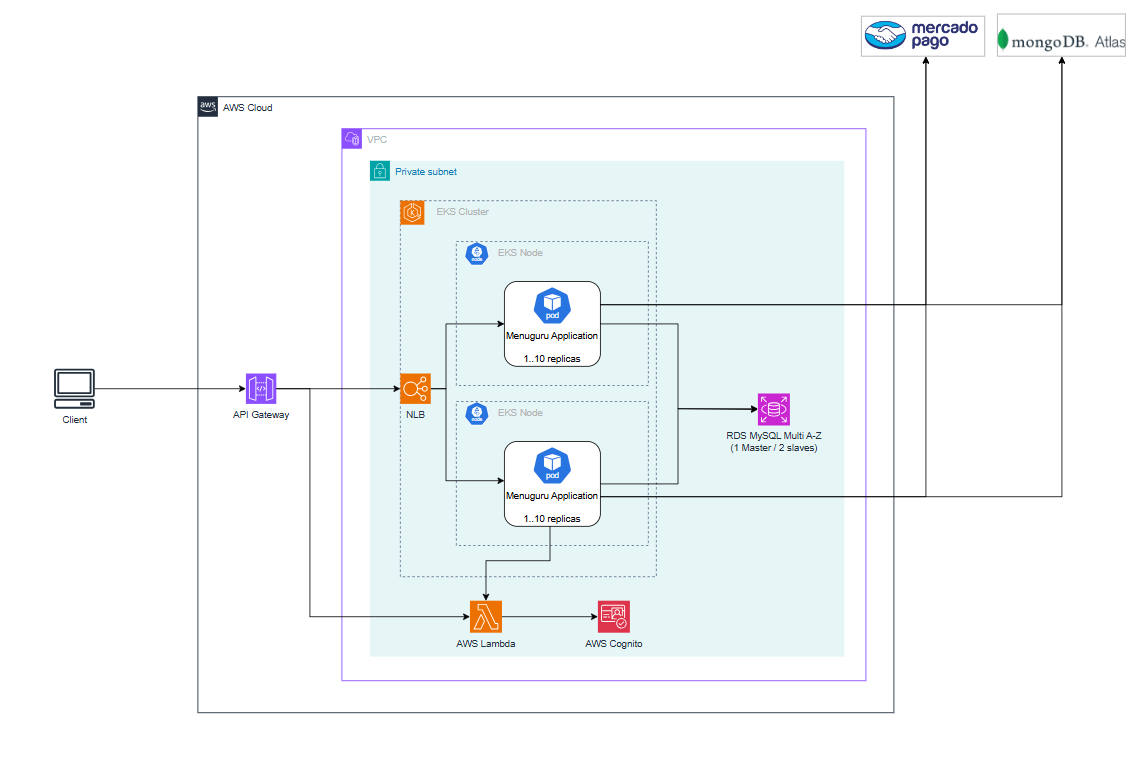
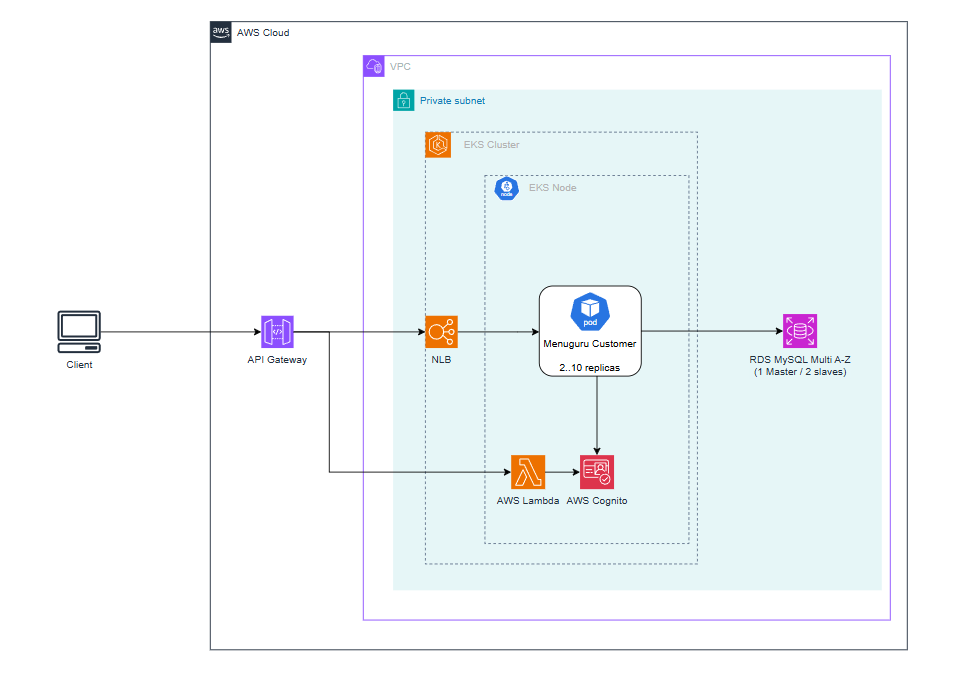
Atualização da documentação

diff --git a/README.md b/README.md
@@ -20,116 +20,23 @@ O projeto foi estruturado em 5 repositórios, cada um com o objetivo de armazena
 
 # Arquitetura
 
-Na versão mais atual do projeto o Menuguru foi estruturado para ser executado em uma arquitetura Kubernetes. Nos exemplos deste README você econtrará o desenho de arquitetura com as necessidades de negócio (desenho de arquitetura de solução) e as necessidades de infraestrutura (desenho de infraestrutura).
-
-## Desenho de Arquitetura de Solução
-
-Abaixo estão representadas as principais funcionalidades de negócio abrangidas pelo projeto do Menuguru.
-
-* Não estão representados os endpoints das APIs do sistema. Para verificar a sequencia de execução de cada endpoint verifique a sessão [Fluxo de Negócio](#fluxo). Você também pode encontrar o Swagger e uma coleção do Postaman na sessão [Operações](#operacoes).
-* Em alguns casos uma entidade pode se repetir no desenho com o mesmo nome. Nestes casos se trata da mesma entidade e este padrão foi adotado para facilitar a leitura do desenho.
-
-![Desenho de Arquitetura de Solução - Cadastro de Clientes](/images/DAS_Cadastro_cliente.png)
-
-![Desenho de Arquitetura de Solução - Efetuar Pedido](/images/DAS_Pedido.png)
-
-![Desenho de Arquitetura de Solução - Acompanhar Pedido](/images/DAS_Acompanhar_Pedido.png)
+Na versão mais atual do projeto o Menuguru foi estruturado para ser executado em uma arquitetura de Microsserviços. 
 
 ### Desenho de Infraestrutura
 
 Abaixo estão representadas a infraestrutura padrão para o Menuguru. O desenho demonstra a implantação em ambiente AWS mas você pode executar o projeto em um provedor Cloud de sua preferência, realizando as devidas adaptações.
 
-![Desenho de Arquitetura de Solução - Acompanhar Pedido](/images/DIF_AWS.png)
+![Desenho de Infraestrutura](/images/DIF_AWS.png)
 
 Abstraímos aqui os componentes do Kubernetes (ControlPlane, etcd, etc) para focar apenas nos componentes da aplicação.
 
-### Banco de dados
 
-Por ter os dados bem estruturados e sem alterações significantes previstas na evolução do projeto, o banco de dados relacional funciona muito bem para atingir os objetivos do projeto, não havendo necessidade de se optar por outros tipos de banco de dados. Foi adicionado também um banco de dados de documentos que entra para armazenar as informações relativas à pagamentos, possibilitando receber informações de diversos provedores e armazená-las em um único repositório independente do formato.
+# Cobertura de Testes
 
-Ainda assim entendemos que em um cenário com volume de requisições para gravações e consultas (o que não é o caso deste sistema de controle de pedidos de restaurante) poderíamos utilizar um banco de dados Colunar, mantendo a visão mais estruturada dos dados e aumentando a performance do projeto.
+Para verificação de cobertura de testes foi utilizado o serviço Sonar Cloud. O percentual de cobertura de testes deste projeto foi de 81.1%, podendo ser verificado na imagem abaixo ou diretamente no [Sonar Cloud](https://sonarcloud.io/project/overview?id=perisatto_menuguru-customer):
 
-Abaixo o modelo de dados do banco de dados escolhido (que também está disponível no README do projeto principal):
+![SonarCloud - Cobertura de Testes](/images/Cobertura de Testes.png)
 
-![Modelo de dados](/images/MER.png)
-
-# Guia para execução do projeto
-
-* [Docker](#docker)
-* [Kubernetes](#kubernetes)
-
-## <a name="docker">Docker</a>
-
-### Pré-Requisitos
-
-* JDK 22 ou mais recente (<https://jdk.java.net/>)
-* Apache Maven versão 3.9.6 ou versão mais recente (<https://maven.apache.org/download.cgi>).
-* Ambiente Docker
-
-Certifique-se que a variável JAVA_HOME e M2_HOME estão apontadas corretamente para as versões indicadas/mais recentes.
-
-### Execução
-
-Após realizar o download deste repositório, entre na raiz do projeto e configure o arquivo de variáveis de ambiente com a senha a ser utilizada para o usuário root do banco de dados, substituindo "**password**" pela senha escolhida (o valor deve ser informado entre aspas):
-
-```
-$echo MYSQL_ROOT_PASSWORD="password" >> .env
-$echo MYSQL_PASSWORD="password" >> .env
-```
-
->Caso o arquivo .env já exista no diretório e você queira configurar uma nova senha para o banco de dados, será necessário apagá-lo antes de configurar as variáveis de ambiente conforme instruções acima.
-
-Com as variáveis de ambiente configuradas é hora de iniciar a aplicação utilizando Docker. Na raiz do projeto utilize o comando "docker-compose" para iniciar a aplicação:
-
-
-``` 
-$docker-compose up
-```
-
-Verificando no painel de controle do Docker você poderá checar se a aplicação está pronta para uso.
-
-## <a name="kubernetes">Kubernetes</a>
-
-Este projeto foi estruturado para ser implantado em Kubernetes através do uso de Helm Chart.
-
-### Pré-Requisitos
-
-* Helm
-* Instância MySQL 8
-* Ambiente Kubernetes (Docker Kubernetes / Minikube / AKS / EKS / GKS, etc)
-
-### Execução
-
-1. Execute o script de preparação do banco de dados em sua instância MySQL 8. O script pode ser encontrado no arquivo [data.sql](/mysql/data.sql) deste projeto.
-
-> Este projeto foi idealizado para ser executado com uma instância MySQL em AWS RDS para garantir a escalabilidade e resiliência da aplicação. Caso deseje, você pode criar um Pod de MySQL usando os arquivos de manifesto existentes no diretorio [kubernetes](/kubernetes/) através do comando abaixo:
->
->   $kubectl apply -f ./kubernetes
->
-> Não se esqueça de alterar os valores das variáveis "mysql_user" e "mysql_password" no arquivo [menuguru-secret.yaml](/kubernetes/menuguru-secret.yaml).
->
-> Caso opte por criar o Pod desta maneira não será necessário executar o passo 1.
-
-2. Ajuste os valores das variáveis no arquivo [values.yaml](/menuguru-helm-chart/values.yaml)
-3. Execute o comando para instalação (altere a tag "\<release\>" pelo nome da release de sua preferência):
->   $helm install \<release\> ./menuguru-helm-chart
-4. Verifique se os pods estão no status "Ready"
->   $kubectl get pods
-
-Após o ambiente estar pronto, você pode executar os comandos conforme descrito na sessão [Operações](#operaçoes).
-
-
-## <a name="operacoes">Operações</a>
-
-As funcionalidades do sistema MenuGuru podem ser acessadas através de APIs REST. As operações disponíveis podem ser consultadas através do contrato disponível em linguagem Openapi 3.0.* (Swagger) na pasta [Swagger](https://github.com/perisatto/menuguru/blob/master/src/main/resources/swagger/menuguru.yaml) deste respositório.
-
-> Para consulta do contrato da API de forma mais amigável, utilize um visualizador Openapi disponível em <https://editor-next.swagger.io/> ou outra ferramenta de sua preferência. 
-
-Após o ambiente configurado e a aplicação executando, as operações podem ser acessadas utilizando API Client. Neste repositório você pode encontrar uma coleção atualizada das APIs para serem utilizadas no API Client [Postman](https://www.postman.com/). Esta coleção está disponível na pasta [postman](https://github.com/perisatto/menuguru/blob/master/src/main/resources/postman/MenuGuru.postman_collection.json) deste repositório.
-
-### <a name="fluxo">Fluxo de negócio</a>
-
-Para facilitar o entendimento da sequencia de execução das operações das APIs REST disponibilizamos um diagrama de sequência que simula o cenário de realização de um pedido, partindo de um cliente não cadastrado que tenta se identificar com CPF. O diagrama de sequência pode ser acessado através [deste link](https://bitily.me/cHagP).
 
 # Demonstração
 
